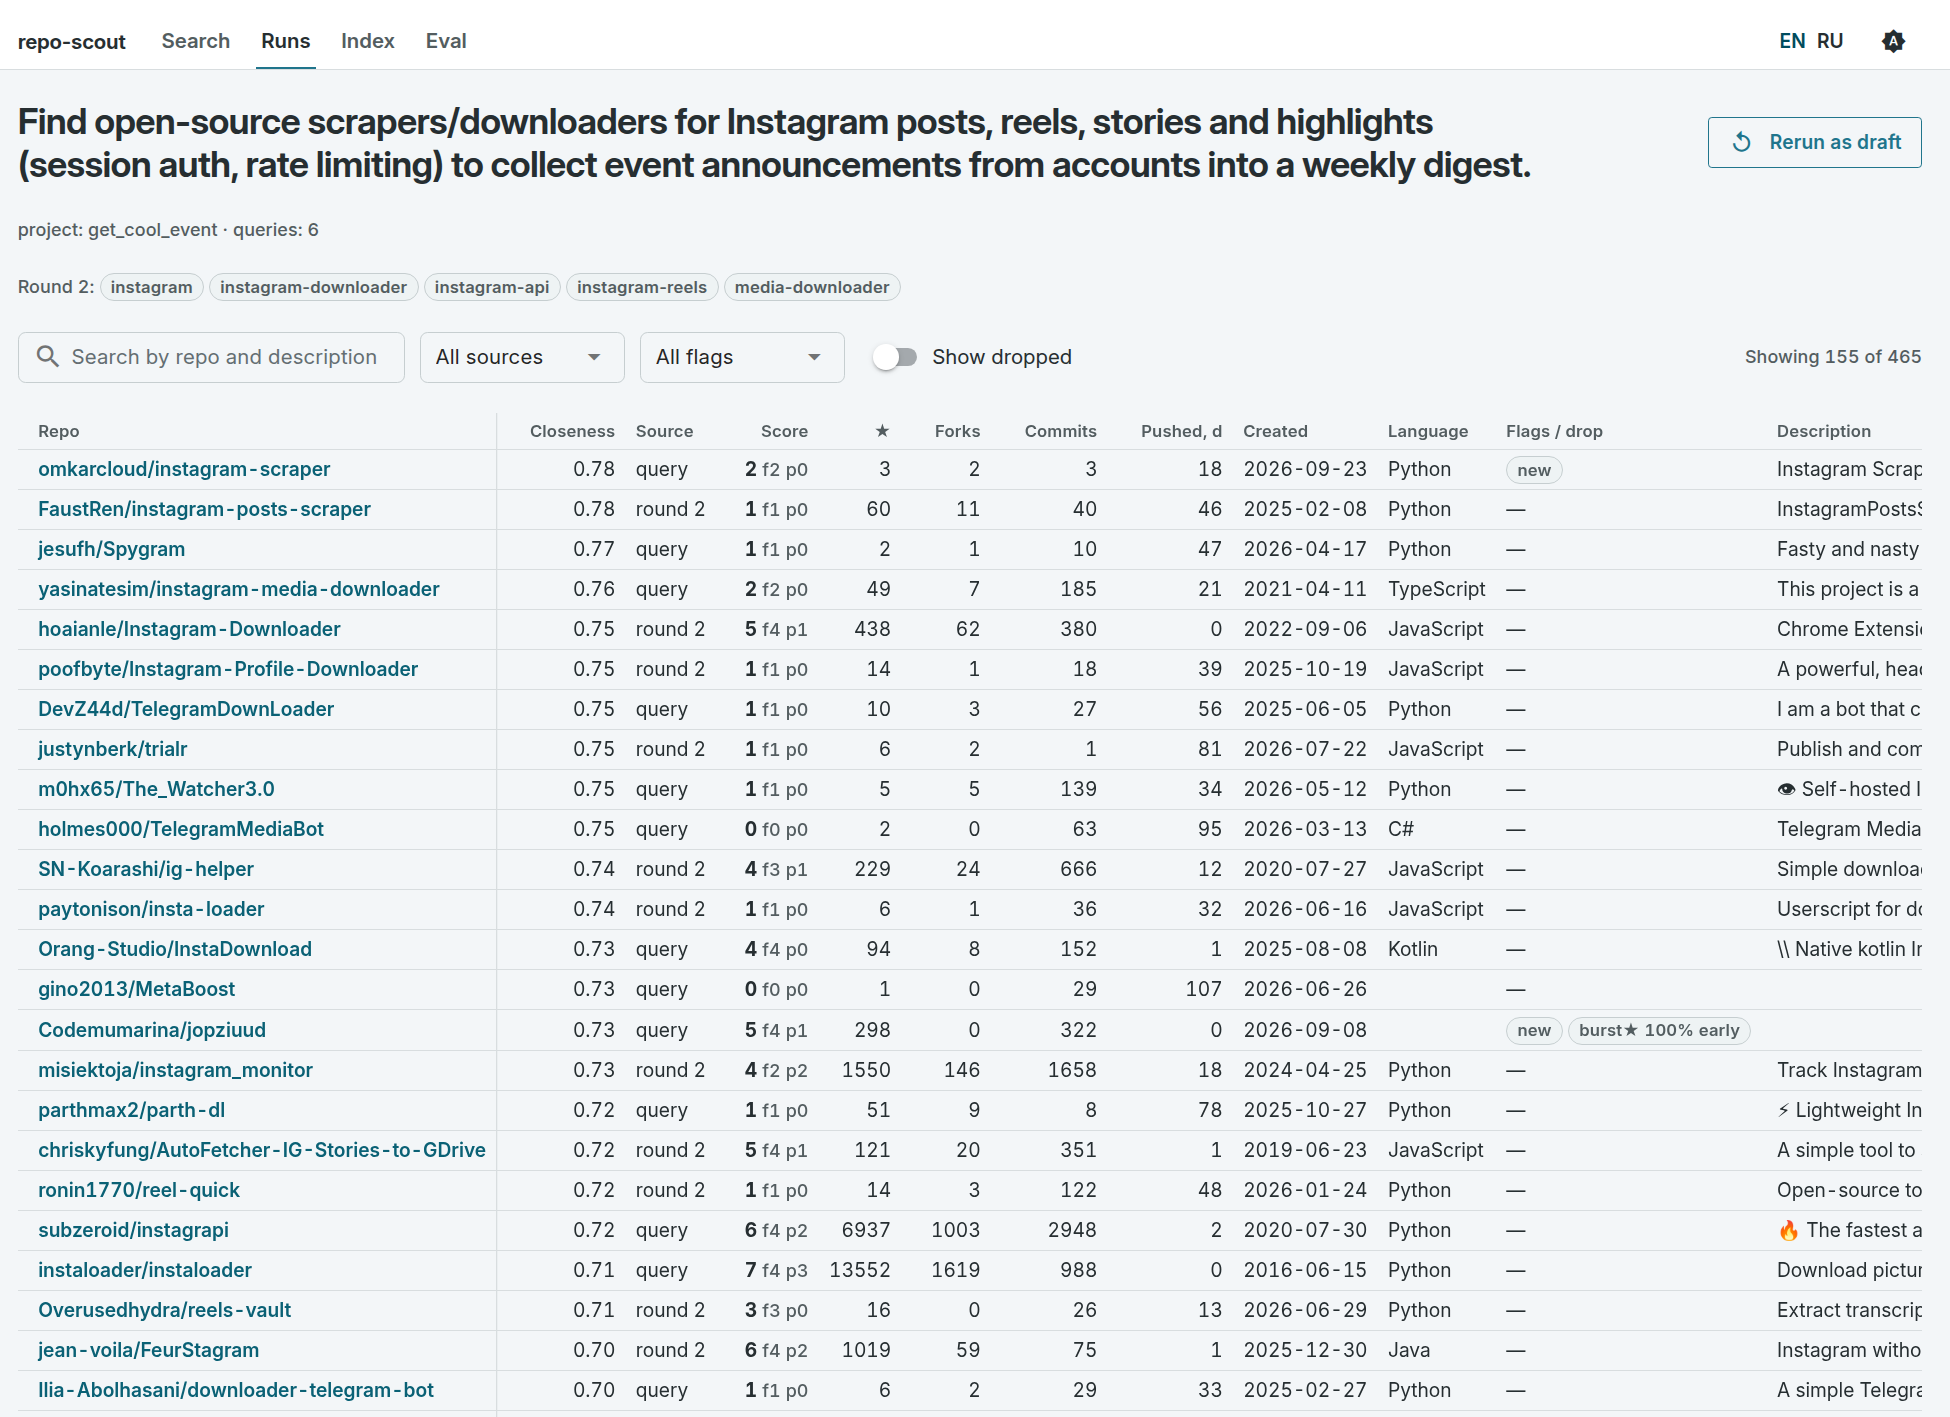
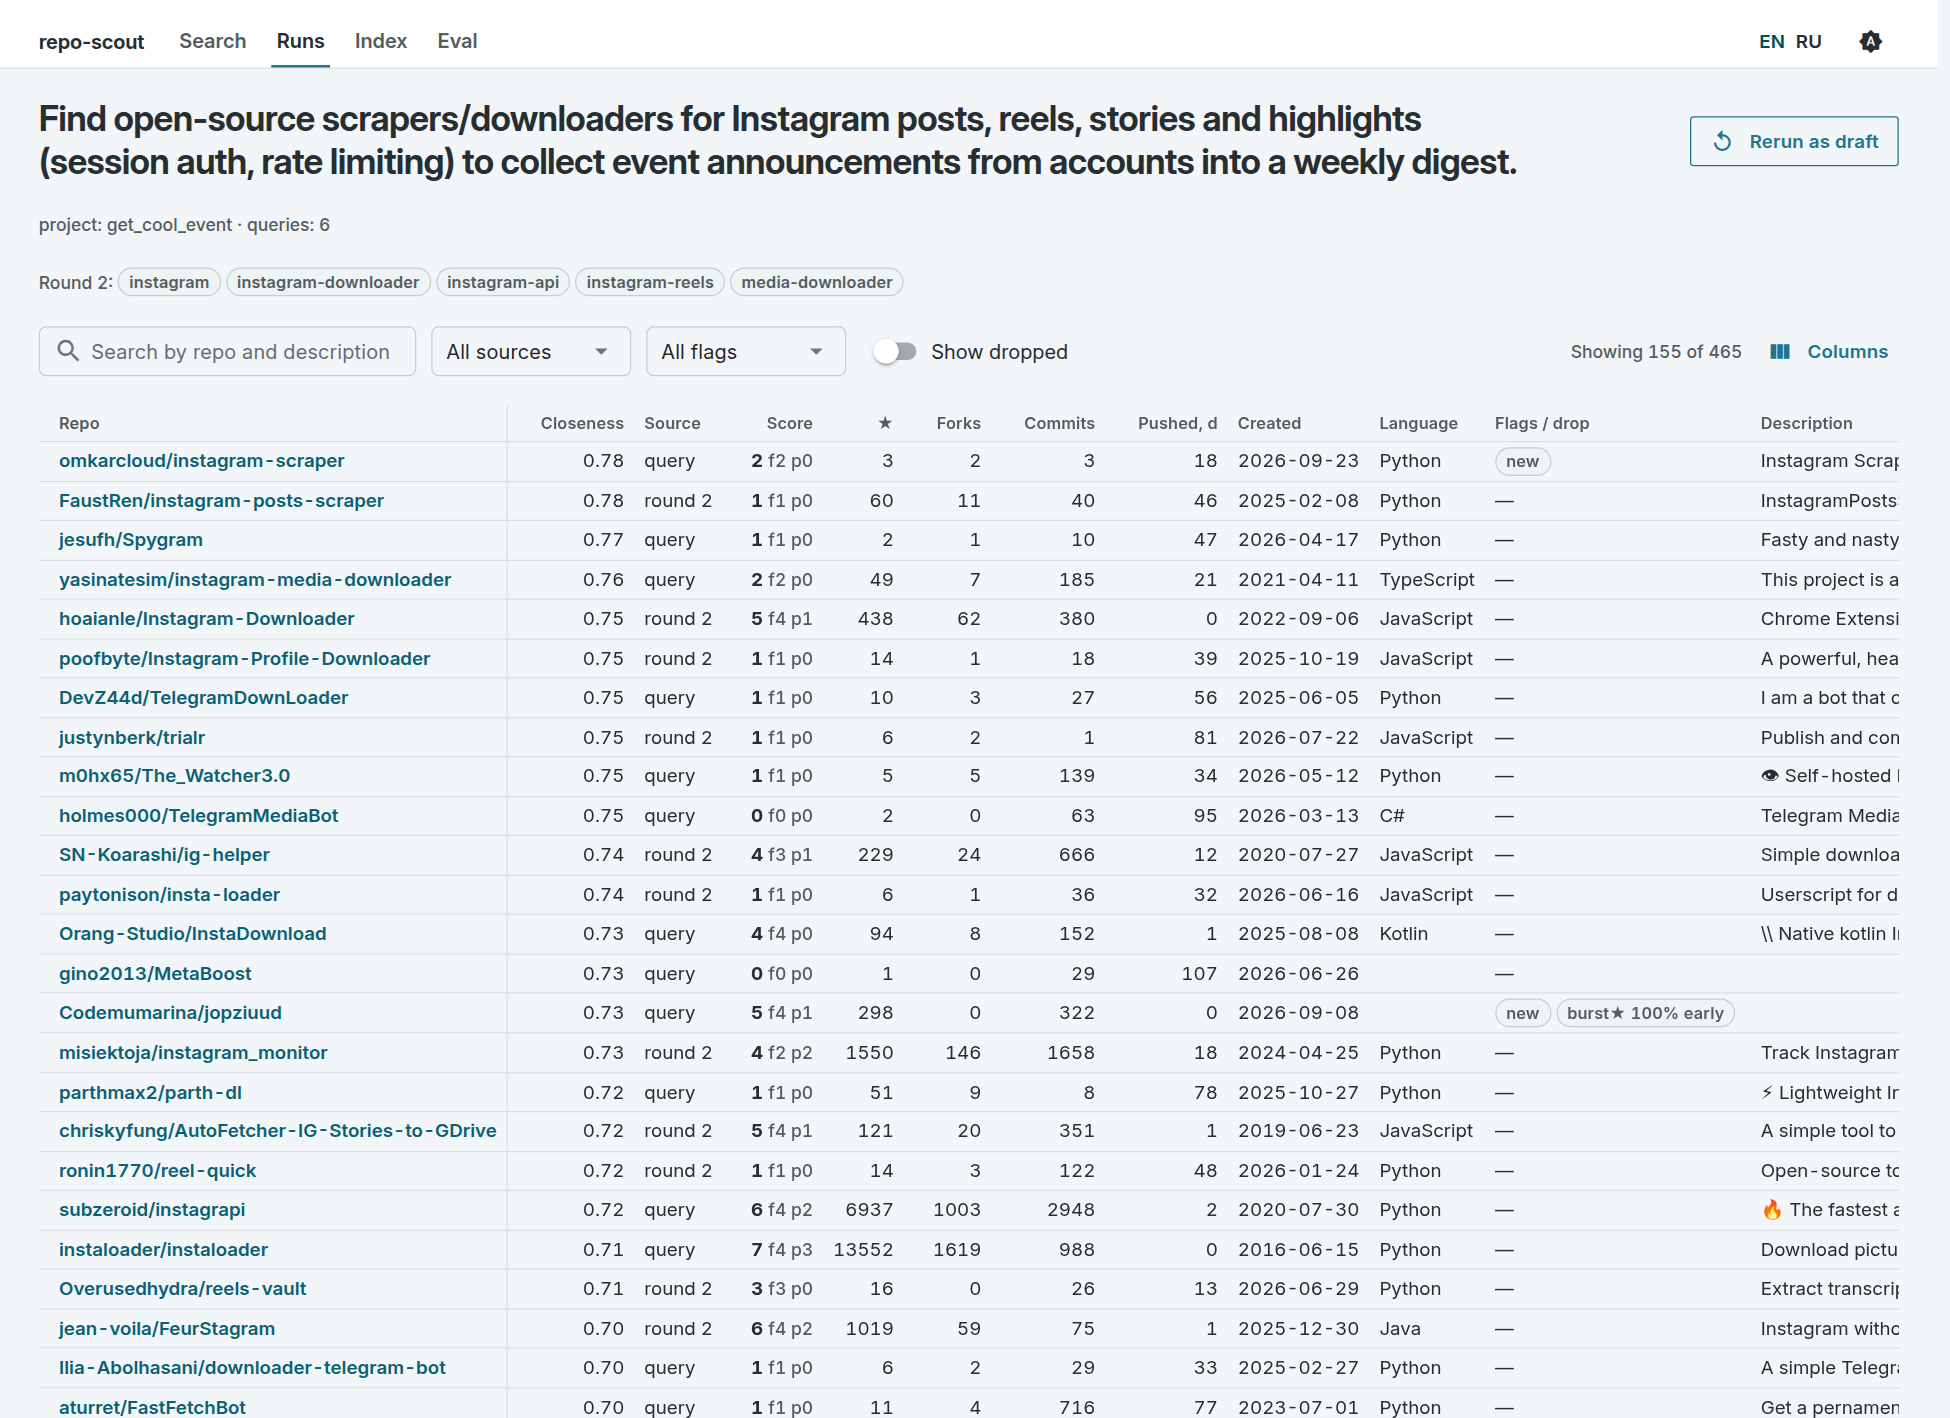
docs: refresh README GUI screenshots
- Same seven views, sizes and framing as before; the run and Index tables
  now show the Columns menu
- Run table pins Repo itself again; the kit pins a first column only after a
  manual column choice (vendored kit 34dd42a), so Index and Runs lose the stray
  white first column

diff --git a/repo_scout/gui/kit/theme.py b/repo_scout/gui/kit/theme.py
@@ -260,9 +260,9 @@ body.body--dark .q-table { color: var(--ic-text); }
 .q-table__container.ic-table { container: ic-table / inline-size; }
 .ic-cell-sub { max-width: min(var(--ic-cell-max), var(--ic-cell-share)); overflow: hidden; text-overflow: ellipsis;
   white-space: nowrap; font-size: var(--ic-fs-sm); color: var(--ic-text-secondary); }
-.ic-table .q-table tr > :first-child { position: sticky; left: 0; z-index: 1;
-  background: var(--ic-surface); border-right: 1px solid var(--ic-border); }
-.ic-table .q-table tbody tr:hover > td:first-child { background: var(--ic-surface-sunken); }
+.ic-table--picked .q-table tr > :first-child { position: sticky; left: 0; z-index: 1;
+  background: var(--ic-canvas); border-right: 1px solid var(--ic-border); }
+.ic-table--picked .q-table tbody tr:hover > td:first-child { background: var(--ic-surface-sunken); }
 .ic-menu-body { padding: var(--ic-s2) var(--ic-s3); }
 
 /* --- links, focus, selection, scrollbars -----------------------------------*/

diff --git a/repo_scout/gui/run_view.py b/repo_scout/gui/run_view.py
@@ -35,6 +35,10 @@ COLUMNS = [
 TABLE_CSS = """
 .rs-run-table .q-table td { white-space: nowrap; }
 .rs-clamp { max-width: min(var(--ic-cell-max), var(--ic-cell-share)); overflow: hidden; text-overflow: ellipsis; }
+/* Repo is first and stays put when the table scrolls sideways */
+.rs-run-table .q-table tr > :first-child { position: sticky; left: 0; z-index: 1;
+  background: var(--ic-canvas); border-right: 1px solid var(--ic-border); }
+.rs-run-table .q-table tbody tr:hover > td:first-child { background: var(--ic-surface-sunken); }
 .rs-run-table tbody tr { cursor: pointer; }
 .rs-repo { font-weight: var(--ic-fw-semibold); color: var(--ic-accent-700); }
 tr:hover .rs-repo { text-decoration: underline; }

diff --git a/repo_scout/gui/kit/VENDORED.ru.md b/repo_scout/gui/kit/VENDORED.ru.md
@@ -2,7 +2,7 @@
 
 # Vendored nicegui-kit
 
-Копия из `~/dev/pylibs/nicegui-kit/src/nicegui_kit/`, коммит `cd76e5c` (ветка `feat/nicegui-kit-texts-tokens-wide-tables`;
+Копия из `~/dev/pylibs/nicegui-kit/src/nicegui_kit/`, коммит `34dd42a` (ветка `feat/nicegui-kit-texts-tokens-wide-tables`;
 `texts`, токены дизайн-системы, широкие таблицы), дата копирования 2026-10-12.
 Модули: `theme`, `layout`, `table`, `texts`, `run_pool`, `run_monitor`, `assets/fonts` (Inter, OFL, `LICENSE.txt`). `hotkeys` не копировался.
 

diff --git a/repo_scout/gui/kit/VENDORED.md b/repo_scout/gui/kit/VENDORED.md
@@ -2,7 +2,7 @@
 
 # Vendored nicegui-kit
 
-Copied from `~/dev/pylibs/nicegui-kit/src/nicegui_kit/`, commit `cd76e5c` (branch `feat/nicegui-kit-texts-tokens-wide-tables`;
+Copied from `~/dev/pylibs/nicegui-kit/src/nicegui_kit/`, commit `34dd42a` (branch `feat/nicegui-kit-texts-tokens-wide-tables`;
 `texts`, design tokens, wide tables), copy date 2026-10-12.
 Modules: `theme`, `layout`, `table`, `texts`, `run_pool`, `run_monitor`, `assets/fonts` (Inter, OFL, `LICENSE.txt`). `hotkeys` was not vendored.
 
